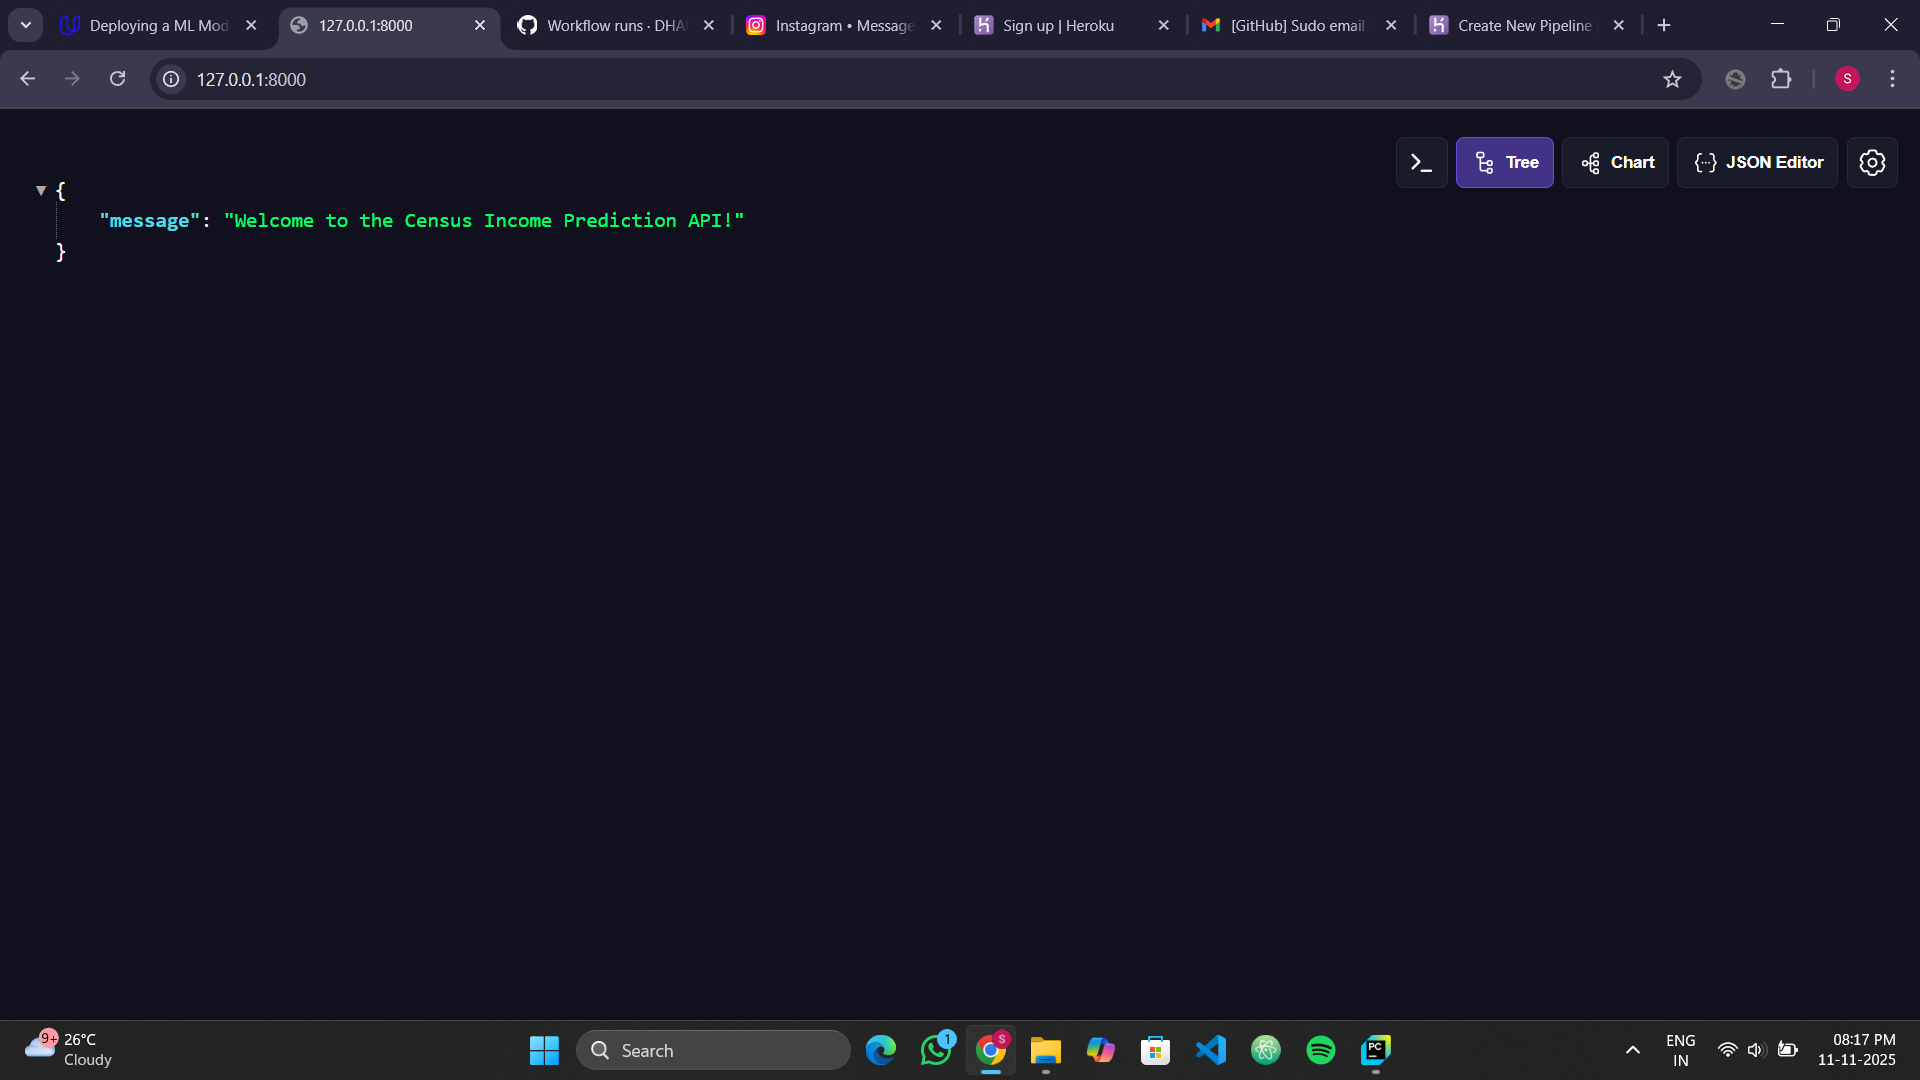
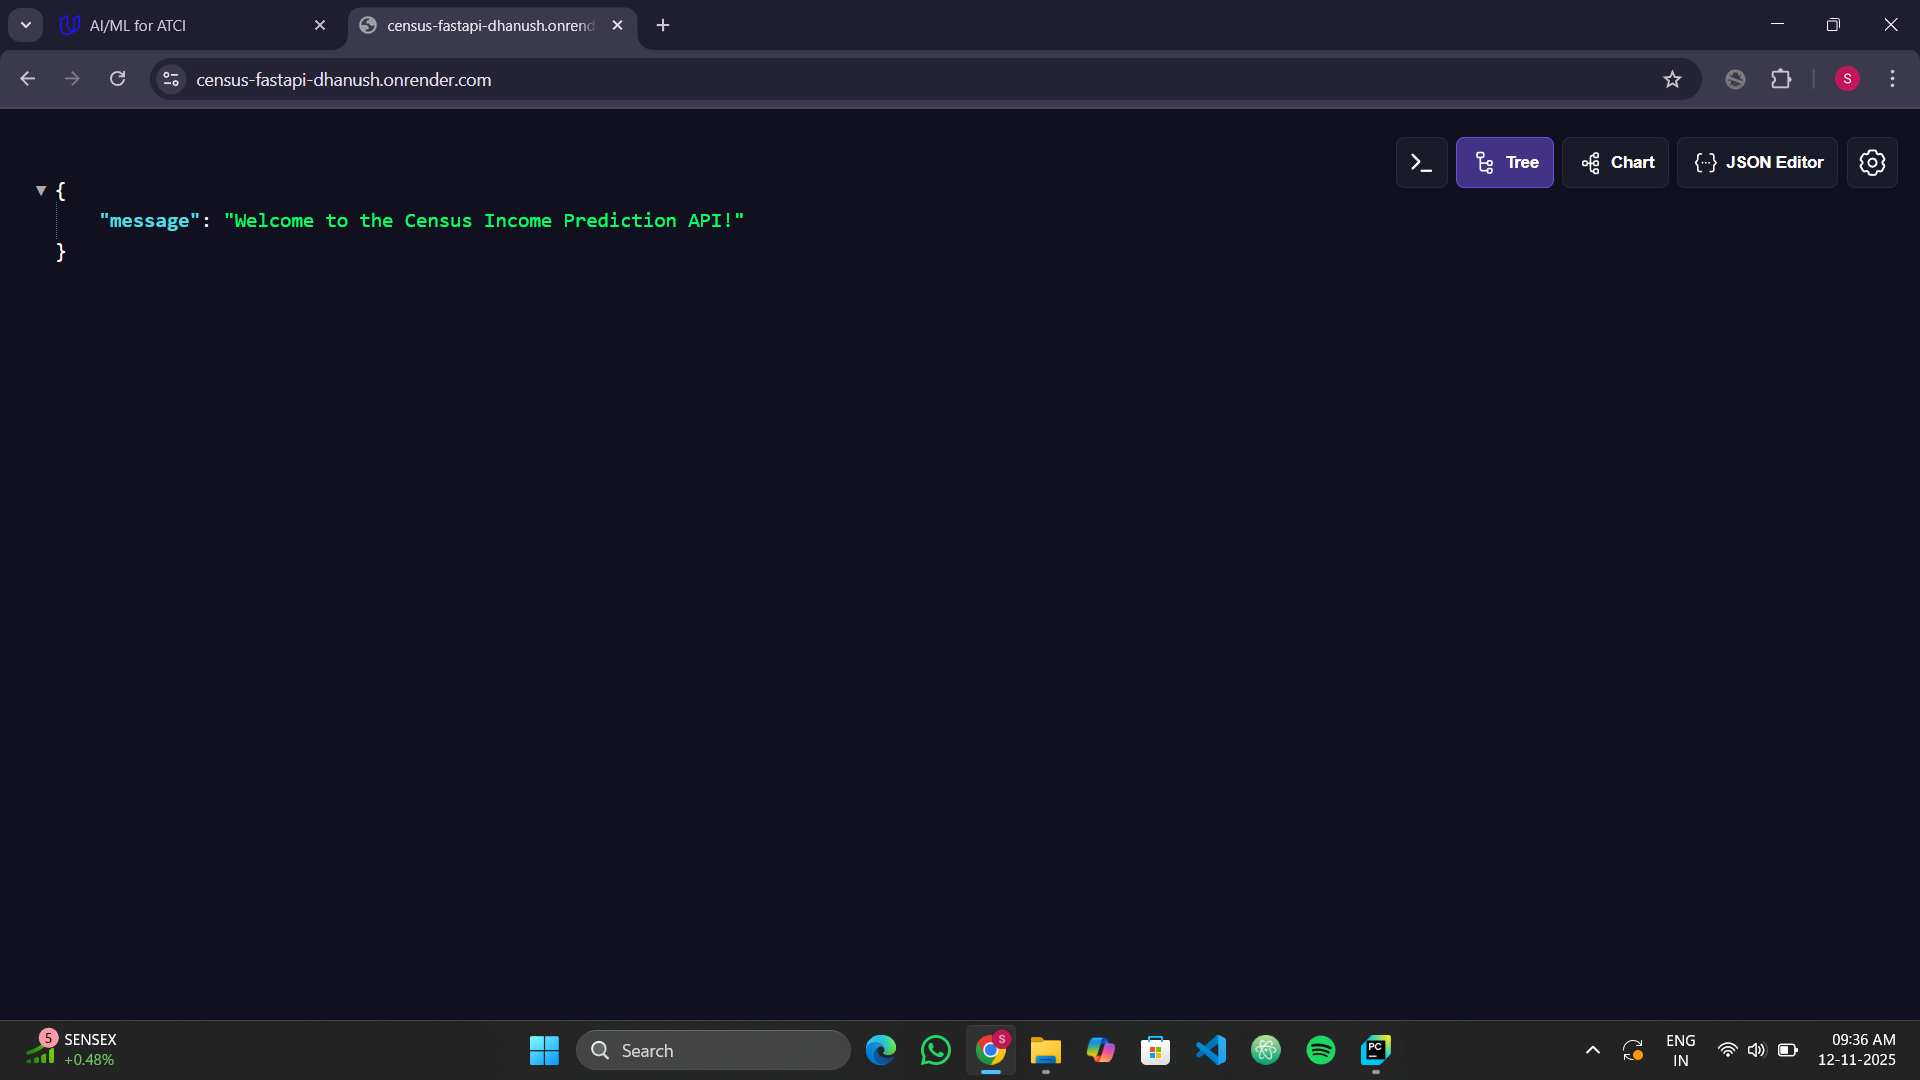
Update live API screenshots showing Render deployment

diff --git a/starter/starter/query_live_api.py b/starter/starter/query_live_api.py
@@ -1,0 +1,38 @@
+import requests
+import sys
+
+URL = "https://census-fastapi-dhanush.onrender.com/predict"
+
+sample = {
+    "age": 52,
+    "workclass": "Self-emp-not-inc",
+    "fnlgt": 209642,
+    "education": "Bachelors",
+    "education-num": 13,
+    "marital-status": "Married-civ-spouse",
+    "occupation": "Exec-managerial",
+    "relationship": "Husband",
+    "race": "White",
+    "sex": "Male",
+    "capital-gain": 15000,
+    "capital-loss": 0,
+    "hours-per-week": 60,
+    "native-country": "United-States"
+}
+
+def main():
+    try:
+        print(f"POSTing to: {URL}\n")
+        r = requests.post(URL, json=sample, timeout=10)
+    except Exception as e:
+        print("Error making request:", e)
+        sys.exit(1)
+
+    print("HTTP status code:", r.status_code)
+    try:
+        print("Response JSON:", r.json())
+    except ValueError:
+        print("Response text:", r.text)
+
+if __name__ == "__main__":
+    main()
